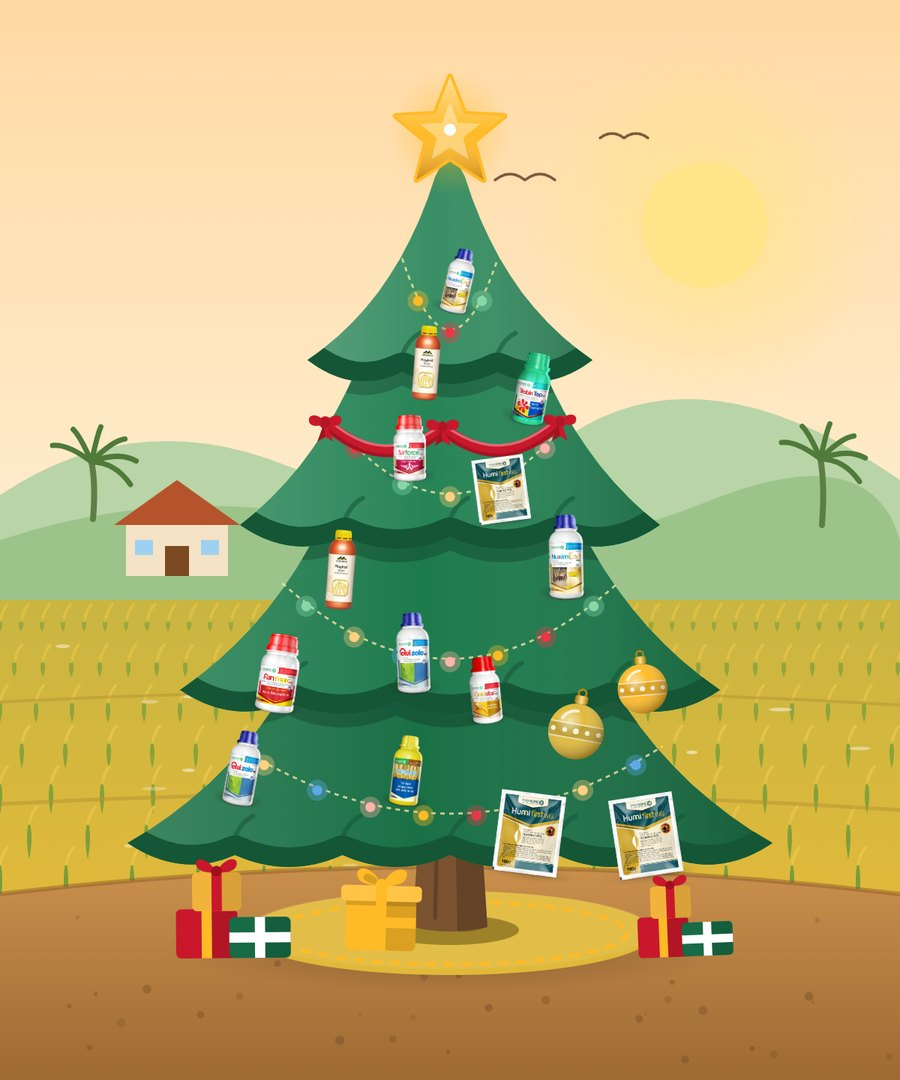
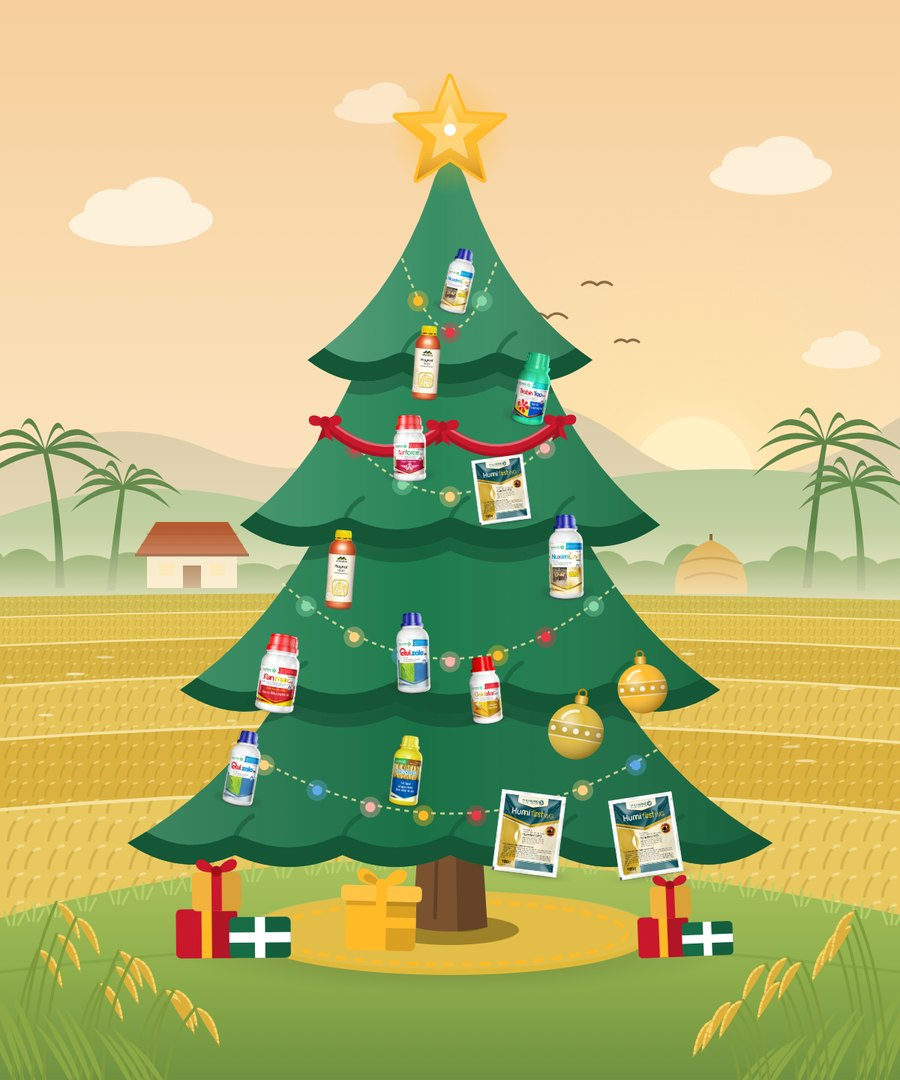
update

diff --git a/public/js/render.js b/public/js/render.js
@@ -3,7 +3,7 @@
    full-design markup, PNG export and the random decorator.
    Stage coordinate system: 600 × 720 units.
    ========================================================= */
-import { escapeHtml, round, uid, clamp } from './core.js?v=20261111a';
+import { escapeHtml, round, uid, clamp } from './core.js?v=20261111f';
 
 export const W = 600;
 export const H = 720;
@@ -224,6 +224,102 @@ function pine(x, y, h, fill) {
   return `<path d="M${x} ${y - h}L${x + w * 0.55} ${y - h * 0.55}H${x + w * 0.3}L${x + w} ${y}H${x - w}L${x - w * 0.3} ${y - h * 0.55}H${x - w * 0.55}Z" fill="${fill}"/>`;
 }
 
+/* ---------------- "Cánh đồng lúa mùa vàng" — golden-hour Vietnamese countryside ---------------- */
+function cloud(x, y, s, o) {
+  return `<g transform="translate(${x} ${y}) scale(${s})" fill="#FFF9EC" opacity="${o}"><ellipse cx="0" cy="0" rx="46" ry="14"/><ellipse cx="-16" cy="-9" rx="20" ry="15"/><ellipse cx="12" cy="-13" rx="24" ry="19"/><ellipse cx="34" cy="-4" rx="16" ry="11"/></g>`;
+}
+function coconut(x, y, h, lean, fill) {
+  // curved trunk + a crown of drooping leaflets, as filled shapes
+  const tx = x + lean, ty = y - h;
+  let g = `<path d="M${x - 3} ${y}Q${x + lean * 0.2} ${y - h * 0.55} ${tx - 1.6} ${ty}L${tx + 1.6} ${ty}Q${x + lean * 0.2 + 4} ${y - h * 0.55} ${x + 3} ${y}Z" fill="${fill}"/>`;
+  [-168, -138, -108, -72, -42, -12, 18, 160].forEach((a, i) => {
+    const rad = (a * Math.PI) / 180, len = h * (0.48 + (i % 3) * 0.05);
+    const ex = tx + Math.cos(rad) * len, ey = ty + Math.sin(rad) * len * 0.55 + len * 0.28;
+    const cx = tx + Math.cos(rad) * len * 0.55, cy = ty + Math.sin(rad) * len * 0.5 - 6;
+    g += `<path d="M${round(tx)} ${round(ty)}Q${round(cx)} ${round(cy - 3)} ${round(ex)} ${round(ey)}Q${round(cx)} ${round(cy + 4)} ${round(tx)} ${round(ty + 2)}Z" fill="${fill}"/>`;
+  });
+  return g;
+}
+function riceClump(x, y, h, dir, r) {
+  // a few stalks bowing under heavy golden heads (foreground framing)
+  let g = '';
+  for (let k = 0; k < 4; k++) {
+    const sx = x + (k - 1.5) * 7 + (r() - 0.5) * 3;
+    const hh = h * (0.78 + r() * 0.3);
+    const bend = dir * (14 + r() * 10);
+    const tx = sx + bend, ty = y - hh;
+    // leaf blade, then the stalk
+    g += `<path d="M${round(sx)} ${y}Q${round(sx - dir * 18)} ${round(y - hh * 0.45)} ${round(sx - dir * 26)} ${round(y - hh * 0.62)}Q${round(sx - dir * 8)} ${round(y - hh * 0.4)} ${round(sx + dir * 2)} ${y}Z" fill="#8CA845"/>`;
+    g += `<path d="M${round(sx)} ${y}Q${round(sx + bend * 0.1)} ${round(y - hh * 0.62)} ${round(tx)} ${round(ty)}" stroke="#7F9A3C" stroke-width="2" fill="none" stroke-linecap="round"/>`;
+    // the drooping panicle: one smooth tapered shape + a light grain edge
+    const ex = tx + dir * 16, ey = ty + 26;
+    g += `<path d="M${round(tx)} ${round(ty)}Q${round(tx + dir * 14)} ${round(ty + 2)} ${round(ex)} ${round(ey)}Q${round(tx + dir * 6)} ${round(ty + 12)} ${round(tx)} ${round(ty)}Z" fill="#DDAF3A"/>`;
+    g += `<path d="M${round(tx + dir * 2)} ${round(ty + 1)}Q${round(tx + dir * 12)} ${round(ty + 4)} ${round(ex - dir * 1)} ${round(ey - 3)}" stroke="#F4D46A" stroke-width="1.6" fill="none" stroke-linecap="round" stroke-dasharray="2.6 1.8"/>`;
+  }
+  return g;
+}
+function riceField(id) {
+  const r = rng(71);
+  let d = `<linearGradient id="${id('sky')}" x1="0" y1="0" x2="0" y2="1"><stop offset="0" stop-color="#F6CF9B"/><stop offset=".45" stop-color="#FBE3BE"/><stop offset="1" stop-color="#FFF3D8"/></linearGradient>`;
+  d += `<radialGradient id="${id('sun')}" cx="50%" cy="50%" r="50%"><stop offset="0" stop-color="#FFF4CF" stop-opacity=".95"/><stop offset=".35" stop-color="#FFE3A0" stop-opacity=".55"/><stop offset="1" stop-color="#FFE3A0" stop-opacity="0"/></radialGradient>`;
+  d += `<linearGradient id="${id('far')}" x1="0" y1="0" x2="0" y2="1"><stop offset="0" stop-color="#D9CBA8"/><stop offset="1" stop-color="#EBDDBA"/></linearGradient>`;
+  d += `<linearGradient id="${id('mid')}" x1="0" y1="0" x2="0" y2="1"><stop offset="0" stop-color="#B8C99A"/><stop offset="1" stop-color="#CBD6A8"/></linearGradient>`;
+  d += `<linearGradient id="${id('mound')}" x1="0" y1="0" x2="0" y2="1"><stop offset="0" stop-color="#A9C25E"/><stop offset=".5" stop-color="#8FAE4C"/><stop offset="1" stop-color="#6F9140"/></linearGradient>`;
+  d += `<linearGradient id="${id('haze')}" x1="0" y1="0" x2="0" y2="1"><stop offset="0" stop-color="#FFF3D8" stop-opacity="0"/><stop offset="1" stop-color="#FFF3D8" stop-opacity=".75"/></linearGradient>`;
+  // rice texture at four perspective scales (far → near)
+  [0.55, 0.8, 1.15, 1.7].forEach((k, i) => {
+    d += `<pattern id="${id('stalk' + i)}" width="16" height="11" patternUnits="userSpaceOnUse" patternTransform="scale(${k})"><path d="M3 11q.6-5 3.6-8.6M10 11q.2-4.4 3.2-7.6" stroke="#A8822A" stroke-opacity=".32" stroke-width="1.1" fill="none" stroke-linecap="round"/><path d="M6.4 2.6q1.2-1 2.6-1M13.2 3.6q1-.8 2.2-.8" stroke="#FFF0B3" stroke-opacity=".5" stroke-width="1" fill="none" stroke-linecap="round"/></pattern>`;
+  });
+
+  let s = `<defs>${d}</defs><rect width="${W}" height="${H}" fill="url(#${id('sky')})"/>`;
+  // sun low over the hills, soft glow and a few clouds
+  s += `<circle cx="462" cy="318" r="190" fill="url(#${id('sun')})"/><circle cx="462" cy="318" r="40" fill="#FFF1C4"/>`;
+  s += cloud(92, 150, 1, 0.75) + cloud(512, 118, 0.85, 0.7) + cloud(250, 74, 0.6, 0.5) + cloud(560, 238, 0.55, 0.55);
+  // distant ranges
+  s += `<path d="M0 312Q70 270 140 300T280 286T420 296T600 278V380H0Z" fill="url(#${id('far')})"/>`;
+  s += `<path d="M0 344Q90 312 180 336T360 330T600 322V392H0Z" fill="url(#${id('mid')})"/>`;
+  // village grove on the horizon (rounded clumps), with palms and a farmhouse
+  let grove = '';
+  for (let x = -10; x < W + 20; x += 18 + r() * 14) {
+    const h = 14 + r() * 16;
+    grove += `<ellipse cx="${round(x)}" cy="${round(392 - h * 0.35)}" rx="${round(14 + r() * 10)}" ry="${round(h * 0.7)}"/>`;
+  }
+  s += `<g fill="#7C9F5A">${grove}</g><rect y="384" width="${W}" height="16" fill="#7C9F5A"/>`;
+  s += coconut(40, 392, 92, -10, '#5E8448') + coconut(74, 394, 70, 8, '#668C4E') + coconut(538, 392, 98, 12, '#5E8448') + coconut(574, 394, 72, -6, '#668C4E');
+  s += `<g transform="translate(128 392)"><rect x="-30" y="-24" width="60" height="24" fill="#F6E6C8"/><path d="M-38 -22L-24 -44H24L38 -22Z" fill="#B65A30"/><path d="M-38 -22H38" stroke="#8E4322" stroke-width="2"/><path d="M-30 -36H30M-34 -29H34" stroke="#9E4A26" stroke-opacity=".45" stroke-width="1"/><rect x="-6" y="-15" width="12" height="15" fill="#8A5428"/><rect x="12" y="-16" width="10" height="8" fill="#FBE3A6"/><rect x="-22" y="-16" width="10" height="8" fill="#FBE3A6"/></g>`;
+  // haystack (đống rơm)
+  s += `<g transform="translate(474 394)"><path d="M0 -38V2" stroke="#7A5A2E" stroke-width="2"/><path d="M-24 2Q-26 -24 0 -34Q26 -24 24 2Z" fill="#D9A742"/><path d="M-18 -8Q0 -16 18 -8M-21 -18Q0 -26 21 -18" stroke="#B88528" stroke-width="1.4" fill="none"/></g>`;
+  s += `<rect y="352" width="${W}" height="48" fill="url(#${id('haze')})"/>`;
+  // terraced paddies: bands get taller toward the viewer
+  const rows = [398, 412, 431, 458, 494, 541, 650];
+  const fills = ['#D3BE54', '#E2C251', '#D8B444', '#E6C459', '#DBB23F', '#E9C860'];
+  for (let i = 0; i < rows.length - 1; i++) {
+    const a = rows[i], b = rows[i + 1], dip = 6 + i * 4;
+    const band = `M0 ${a}Q300 ${a - dip} 600 ${a + 2}V${b + 2}Q300 ${b - dip - 4} 0 ${b}Z`;
+    s += `<path d="${band}" fill="${fills[i]}"/><path d="${band}" fill="url(#${id('stalk' + Math.min(3, Math.floor(i * 0.7)))})"/>`;
+    // the bờ ruộng (dyke) between two paddies: sunlit top + shadow
+    const w = 1 + i * 0.6;
+    s += `<path d="M0 ${b}Q300 ${b - dip - 4} 600 ${b + 2}" stroke="#F6E3A0" stroke-width="${round(w + 1)}" fill="none"/><path d="M0 ${b + w}Q300 ${b - dip - 4 + w} 600 ${b + 2 + w}" stroke="#A9842D" stroke-opacity=".35" stroke-width="${round(w)}" fill="none"/>`;
+  }
+  // a few water glints between the rows
+  for (let i = 0; i < 18; i++) s += `<ellipse cx="${round(r() * W)}" cy="${round(404 + r() * 120)}" rx="${round(2 + r() * 5)}" ry=".9" fill="#FFF8DD" opacity="${round(0.35 + r() * 0.35)}"/>`;
+  // birds heading home
+  s += `<g stroke="#8B6A45" stroke-width="1.6" fill="none" stroke-linecap="round"><path d="M352 212q7-6 13 0q6-6 13 0"/><path d="M388 190q5-4 10 0q5-4 10 0"/><path d="M410 228q4-3 8 0q4-3 8 0"/></g>`;
+  // grassy mound the tree stands on
+  s += `<path d="M0 612Q150 570 300 574T600 610V720H0Z" fill="url(#${id('mound')})"/>`;
+  let tufts = '';
+  for (let x = 6; x < W; x += 13 + r() * 10) {
+    const y = 612 - 40 * Math.sin((x / W) * Math.PI) + 2;
+    tufts += `<path d="M${round(x)} ${round(y + 4)}l-3 -9M${round(x + 3)} ${round(y + 4)}l1 -11M${round(x + 6)} ${round(y + 4)}l4 -8"/>`;
+  }
+  s += `<g stroke="#B9D06C" stroke-width="1.6" stroke-linecap="round" opacity=".9">${tufts}</g>`;
+  s += `<path d="M0 648Q300 610 600 648" stroke="#6F9140" stroke-opacity=".35" stroke-width="2" fill="none"/>`;
+  // foreground rice framing both bottom corners
+  s += riceClump(18, 720, 110, 1, r) + riceClump(58, 724, 86, 1, r) + riceClump(98, 726, 62, 1, r);
+  s += riceClump(582, 720, 112, -1, r) + riceClump(542, 724, 84, -1, r) + riceClump(504, 726, 58, -1, r);
+  return s;
+}
+
 export function renderBackground(bg, u = 'b') {
   const id = (k) => `${u}-${k}`;
   const theme = bg.theme;
@@ -301,38 +397,7 @@ export function renderBackground(bg, u = 'b') {
     s += snowDots(r, 30, 0, 600, 0.6);
     return s;
   }
-  if (theme === 'rice-field') {
-    const r = rng(71);
-    let s = `<defs><linearGradient id="${id('sky')}" x1="0" y1="0" x2="0" y2="1"><stop offset="0" stop-color="#FFD9A3"/><stop offset=".55" stop-color="#FFEFD2"/><stop offset="1" stop-color="#FFF8E6"/></linearGradient><radialGradient id="${id('sun')}"><stop offset="0" stop-color="#FFE48A" stop-opacity=".9"/><stop offset="1" stop-color="#FFE48A" stop-opacity="0"/></radialGradient><linearGradient id="${id('paddy')}" x1="0" y1="0" x2="0" y2="1"><stop offset="0" stop-color="#C9B542"/><stop offset="1" stop-color="#E0B93A"/></linearGradient><linearGradient id="${id('ground')}" x1="0" y1="0" x2="0" y2="1"><stop offset="0" stop-color="#C98F4C"/><stop offset="1" stop-color="#9D6A33"/></linearGradient></defs>`;
-    s += `<rect width="${W}" height="${H}" fill="url(#${id('sky')})"/><circle cx="470" cy="150" r="120" fill="url(#${id('sun')})"/><circle cx="470" cy="150" r="42" fill="#FFE48A"/>`;
-    // far hills + palm silhouettes
-    s += `<path d="M0 330Q90 270 190 310T380 290T600 320V400H0Z" fill="#B9D4A6"/><path d="M0 360Q120 320 240 350T470 335T600 360V420H0Z" fill="#9CC48A"/>`;
-    [[62, 346, 38], [548, 350, 44]].forEach(([x, y, h]) => {
-      s += `<path d="M${x} ${y}q2 -${h * 0.6} -1 -${h}" stroke="#5E7F43" stroke-width="4" fill="none" stroke-linecap="round"/>`;
-      for (let k = 0; k < 6; k++) { const a = -150 + k * 36; s += `<path d="M${x - 1} ${y - h}q${round(18 * Math.cos((a * Math.PI) / 180))} ${round(12 * Math.sin((a * Math.PI) / 180) - 6)} ${round(30 * Math.cos((a * Math.PI) / 180))} ${round(26 * Math.sin((a * Math.PI) / 180) + 2)}" stroke="#4F7A3A" stroke-width="3.5" fill="none" stroke-linecap="round"/>`; }
-    });
-    // village house
-    s += `<g transform="translate(118 378)"><rect x="-34" y="-28" width="68" height="34" fill="#F4E3C7"/><path d="M-42 -28L0 -58L42 -28Z" fill="#B5542C"/><rect x="-8" y="-14" width="16" height="20" fill="#7C4A22"/><rect x="16" y="-18" width="12" height="10" fill="#9ED1F0"/><rect x="-28" y="-18" width="12" height="10" fill="#9ED1F0"/></g>`;
-    // paddy rows in golden-green
-    s += `<rect y="400" width="${W}" height="200" fill="url(#${id('paddy')})"/>`;
-    for (let row = 0; row < 7; row++) {
-      const y = 412 + row * 27;
-      const sp = 14 + row * 5;
-      for (let x = (row % 2) * sp / 2; x < W; x += sp) {
-        const hh = 9 + row * 3.4;
-        s += `<path d="M${round(x)} ${y + hh}q-3 -${round(hh * 0.6)} 0 -${round(hh)}q3 ${round(hh * 0.4)} 0 ${round(hh)}" fill="#6E9A3A" opacity="${round(0.55 + row * 0.06)}"/><path d="M${round(x)} ${y + 2}q2 -8 5 -11" stroke="#E9C64A" stroke-width="2" fill="none" stroke-linecap="round" opacity="${round(0.6 + row * 0.05)}"/>`;
-      }
-    }
-    // field divider paths + water glints
-    s += `<path d="M0 468Q300 452 600 470" stroke="#B59334" stroke-opacity=".5" stroke-width="2" fill="none"/><path d="M0 536Q300 520 600 540" stroke="#B59334" stroke-opacity=".5" stroke-width="2.5" fill="none"/>`;
-    for (let i = 0; i < 26; i++) s += `<ellipse cx="${round(r() * W)}" cy="${round(430 + r() * 150)}" rx="${round(3 + r() * 6)}" ry="1.2" fill="#fff" opacity="${round(0.25 + r() * 0.3)}"/>`;
-    // dirt yard where the tree stands
-    s += `<path d="M0 596Q300 560 600 596V720H0Z" fill="url(#${id('ground')})"/><path d="M0 596Q300 560 600 596" stroke="#8F5D2B" stroke-opacity=".5" stroke-width="3" fill="none"/>`;
-    for (let i = 0; i < 40; i++) s += `<circle cx="${round(r() * W)}" cy="${round(610 + r() * 100)}" r="${round(1 + r() * 2.2)}" fill="#6B4320" opacity="${round(0.15 + r() * 0.25)}"/>`;
-    // dragonflies / birds
-    s += `<path d="M330 120q10-8 20 0M350 120q10-8 20 0M400 92q8-6 16 0M416 92q8-6 16 0" stroke="#7A5C3A" stroke-width="1.8" fill="none" stroke-linecap="round"/>`;
-    return s;
-  }
+  if (theme === 'rice-field') return riceField(id);
   // minimal
   const c = bg.color || '#FBE9D7';
   const light = luminance(c) > 0.35;

diff --git a/public/js/home.js b/public/js/home.js
@@ -1,6 +1,6 @@
-import { $, $$, mountChrome, loadLibrary, showFatal, escapeHtml } from './core.js?v=20261111a';
-import { renderDesignSVG } from './render.js?v=20261111a';
-import { THEMES, designFromTheme } from './themes-data.js?v=20261111a';
+import { $, $$, mountChrome, loadLibrary, showFatal, escapeHtml } from './core.js?v=20261111f';
+import { renderDesignSVG } from './render.js?v=20261111f';
+import { THEMES, designFromTheme } from './themes-data.js?v=20261111f';
 
 mountChrome('about');
 
@@ -47,18 +47,15 @@ const DROPS = [12, 40, 22, 50, 16, 34, 26, 46];
 // Phú Nông theme products first, so the garland matches the hero tree
 const FEATURED = THEMES[0].pool.filter((id) => id.startsWith('pn-'));
 
-let garlandFilter = 'all';
 let garlandCount = 0;
 let products = [];
 
-function pickProducts(filter) {
+function pickProducts() {
   const ordered = [...products].sort((a, b) => {
     const ia = FEATURED.indexOf(a.id), ib = FEATURED.indexOf(b.id);
     return (ia < 0 ? 99 : ia) - (ib < 0 ? 99 : ib);
   });
-  if (filter === 'bvtv') return ordered.filter((a) => !isFert(a));
-  if (filter === 'fert') return ordered.filter(isFert);
-  // "all": two pesticides, one fertiliser, repeat — both families stay visible
+  // two pesticides, one fertiliser, repeat — both families stay visible
   const b = ordered.filter((a) => !isFert(a)), f = ordered.filter(isFert), out = [];
   while (b.length || f.length) {
     if (b.length) out.push(b.shift());
@@ -96,7 +93,7 @@ function layoutGarland() {
 function renderGarland() {
   const list = $('#garland');
   const n = slotsFor(window.innerWidth);
-  const all = pickProducts(garlandFilter);
+  const all = pickProducts();
   const items = all.slice(0, n);
   garlandCount = n;
   $('#garland-track').style.setProperty('--n', items.length);
@@ -125,17 +122,6 @@ function renderGarland() {
 
 function setupGarland() {
   products = lib.decorations.filter((a) => a.category === 'products' && isBottle(a));
-  const counts = { all: products.length, bvtv: products.filter((a) => !isFert(a)).length, fert: products.filter(isFert).length };
-  $$('[data-count]').forEach((n) => { n.textContent = counts[n.dataset.count]; });
-  $$('#garland-filter button').forEach((btn) => {
-    btn.hidden = counts[btn.dataset.filter] === 0;
-    btn.addEventListener('click', () => {
-      if (btn.dataset.filter === garlandFilter) return;
-      garlandFilter = btn.dataset.filter;
-      $$('#garland-filter button').forEach((b) => b.setAttribute('aria-pressed', String(b === btn)));
-      renderGarland();
-    });
-  });
   renderGarland();
   let timer = 0;
   window.addEventListener('resize', () => {

diff --git a/public/js/boot-check.js b/public/js/boot-check.js
@@ -1,0 +1,41 @@
+/* Classic (non-module) script: it still runs when the page is opened straight from disk
+   (file://), where the browser blocks the ES modules. Instead of the page hanging on its
+   "Đang tải…" placeholders, show what went wrong and how to fix it.
+   Usage: <script src="js/boot-check.js" data-ready="CSS selector that exists once the page has loaded"></script> */
+(function () {
+  var script = document.currentScript;
+  var readySelector = (script && script.getAttribute('data-ready')) || '';
+
+  function warn(html) {
+    if (document.getElementById('boot-warning')) return;
+    var box = document.createElement('div');
+    box.id = 'boot-warning';
+    box.setAttribute('role', 'alert');
+    box.style.cssText = 'position:fixed;left:16px;right:16px;bottom:16px;z-index:1000;max-width:720px;margin:0 auto;'
+      + 'background:#fff;color:#13261B;border-left:6px solid #B90C17;border-radius:14px;padding:16px 20px;'
+      + 'box-shadow:0 18px 40px rgba(0,0,0,.25);font:500 15px/1.55 "Plus Jakarta Sans",system-ui,sans-serif;';
+    box.innerHTML = html;
+    document.body.appendChild(box);
+  }
+  var code = 'style="background:#EBF1E4;padding:1px 6px;border-radius:5px;font-family:ui-monospace,Consolas,monospace"';
+
+  if (location.protocol === 'file:') {
+    var start = function () {
+      warn('<b>Trang đang được mở trực tiếp từ file nên trình duyệt chặn tải dữ liệu.</b><br>'
+        + 'Hãy chạy server rồi mở <a href="http://localhost:5173/" style="color:#0B6B3A;font-weight:700">http://localhost:5173</a>:<br>'
+        + 'mở terminal tại thư mục dự án và gõ <span ' + code + '>cd public</span> rồi <span ' + code + '>python -m http.server 5173</span>.');
+    };
+    if (document.body) start(); else document.addEventListener('DOMContentLoaded', start);
+    return;
+  }
+
+  if (!readySelector) return;
+  window.addEventListener('load', function () {
+    setTimeout(function () {
+      if (document.querySelector(readySelector)) return;
+      warn('<b>Không tải được dữ liệu của trang.</b><br>'
+        + 'Kiểm tra server ở máy còn chạy không (<span ' + code + '>python -m http.server 5173</span> trong thư mục <span ' + code + '>public</span>), '
+        + 'rồi tải lại trang bằng <span ' + code + '>Ctrl + F5</span>.');
+    }, 8000);
+  });
+})();

diff --git a/public/css/styles.css b/public/css/styles.css
@@ -335,12 +335,6 @@ body.page-home {
 .home-garland-head { display: flex; align-items: flex-end; justify-content: space-between; gap: 28px; flex-wrap: wrap; }
 .home-garland h2 { color: #fff; max-width: 640px; }
 .home-garland-head p { margin: 12px 0 0; max-width: 580px; color: #C9DDD0; font-size: 16.5px; line-height: 1.6; }
-.home-filter { display: flex; gap: 6px; padding: 5px; border-radius: 999px; background: rgba(255, 255, 255, .07); box-shadow: inset 0 0 0 1px rgba(255, 255, 255, .14); }
-.home-filter button { display: inline-flex; align-items: center; gap: 8px; border: 0; background: transparent; color: #E6F1E9; padding: 9px 16px; min-height: 40px; border-radius: 999px; font: 600 14px/1.2 var(--font-body); transition: background .18s, color .18s; }
-.home-filter button span { font-size: 12px; font-weight: 700; padding: 2px 7px; border-radius: 999px; background: rgba(255, 255, 255, .12); }
-.home-filter button:hover { background: rgba(255, 255, 255, .1); }
-.home-filter button[aria-pressed="true"] { background: var(--hm-gold); color: var(--hm-green-950); }
-.home-filter button[aria-pressed="true"] span { background: rgba(5, 42, 24, .14); }
 
 .home-garland-scroller { margin-top: 10px; }
 .home-garland-track { position: relative; height: 370px; }
@@ -453,9 +447,6 @@ body.page-home {
 }
 @media (max-width: 759px) {
   .home-garland { padding: 48px 0 40px; }
-  .home-filter { width: 100%; }
-  .home-filter button { flex: 1 1 auto; justify-content: center; gap: 6px; padding: 8px 8px; font-size: 13.5px; white-space: nowrap; }
-  .home-filter button span { padding: 2px 6px; }
   .home-garland-scroller { display: flex; padding: 0 16px; overflow-x: auto; overscroll-behavior-x: contain; scrollbar-width: thin; scrollbar-color: rgba(224, 185, 58, .6) transparent; -webkit-overflow-scrolling: touch; }
   .home-garland-track { flex: none; height: 300px; width: calc(var(--n, 12) * 100px); max-width: none; }
   .home-orn { width: 96px; margin-left: -48px; }

diff --git a/public/studio.html b/public/studio.html
@@ -14,7 +14,7 @@
   <link rel="preconnect" href="https://fonts.gstatic.com" crossorigin>
   <link rel="stylesheet"
     href="https://fonts.googleapis.com/css2?family=Material+Symbols+Rounded:opsz,wght,FILL,GRAD@24,500,0..1,0&display=block">
-  <link rel="stylesheet" href="css/styles.css?v=20261111c">
+  <link rel="stylesheet" href="css/styles.css?v=20261111f">
 </head>
 
 <body class="page-studio">
@@ -179,7 +179,7 @@
             <h3>Lời chúc riêng</h3>
             <label class="switch"><span>Hiện lời chúc trên cây</span><input type="checkbox" id="gr-visible"></label>
             <label class="sub" for="gr-text">Lời chúc</label>
-            <input class="field" id="gr-text" maxlength="60" placeholder="Giáng Sinh an lành — Mùa vàng bội thu!">
+            <input class="field" id="gr-text" maxlength="60" placeholder="Giáng Sinh an lành - Mùa vàng bội thu!">
             <label class="sub" for="gr-name">Tên của bạn</label>
             <input class="field" id="gr-name" maxlength="40" placeholder="vd. Đại lý Phú Nông Cần Thơ">
             <label class="sub" for="gr-date">Ngày hoặc lời đề tặng</label>
@@ -214,7 +214,8 @@
     <button type="button" data-sheet="scene"><span class="ms">wb_twilight</span>Cảnh</button>
   </nav>
 
-  <script type="module" src="js/studio.js?v=20261111a"></script>
+  <script src="js/boot-check.js?v=20261111f" data-ready="#L-tree *"></script>
+  <script type="module" src="js/studio.js?v=20261111f"></script>
 </body>
 
 </html>

diff --git a/public/index.html b/public/index.html
@@ -18,7 +18,7 @@
   <link rel="preconnect" href="https://fonts.gstatic.com" crossorigin>
   <link rel="stylesheet"
     href="https://fonts.googleapis.com/css2?family=Material+Symbols+Rounded:opsz,wght,FILL,GRAD@24,500,0..1,0&display=block">
-  <link rel="stylesheet" href="css/styles.css?v=20261111c">
+  <link rel="stylesheet" href="css/styles.css?v=20261111f">
 </head>
 
 <body class="page-home">
@@ -104,13 +104,6 @@
       <div class="container home-garland-head">
         <div>
           <h2 id="garland-title">Sản phẩm Phú Nông treo trên cây thông</h2>
-        </div>
-        <div class="home-filter" role="group" aria-label="Lọc sản phẩm" id="garland-filter">
-          <button type="button" data-filter="all" aria-pressed="true">Tất cả <span data-count="all">38</span></button>
-          <button type="button" data-filter="bvtv" aria-pressed="false">Thuốc BVTV <span
-              data-count="bvtv">25</span></button>
-          <button type="button" data-filter="fert" aria-pressed="false">Phân bón <span
-              data-count="fert">13</span></button>
         </div>
       </div>
 
@@ -201,7 +194,8 @@
       </div>
     </section>
   </main>
-  <script type="module" src="js/home.js?v=20261111a"></script>
+  <script src="js/boot-check.js?v=20261111f" data-ready="#hero-tree svg"></script>
+  <script type="module" src="js/home.js?v=20261111f"></script>
 </body>
 
 </html>

diff --git a/public/js/themes-data.js b/public/js/themes-data.js
@@ -1,13 +1,13 @@
 /* Ready-made Christmas themes. Each one sets coordinated colours,
    a background and a decoration pool, then the random decorator
    lays them out. Users can keep editing afterwards. */
-import { defaultDesign, clone } from './core.js?v=20261111a';
-import { generateDecorations } from './render.js?v=20261111a';
+import { defaultDesign, clone } from './core.js?v=20261111f';
+import { generateDecorations } from './render.js?v=20261111f';
 
 export const THEMES = [
   {
     id: 'phu-nong-harvest', name: 'Mùa Vàng Phú Nông', group: 'traditional',
-    badge: 'Phú Nông', badgeIcon: 'eco', photo: 'assets/themes/phu-nong-harvest.jpg', photoPosition: 'center 35%', photoLabel: 'Đồng lúa', icon: 'agriculture',
+    badge: 'Phú Nông', badgeIcon: 'eco', photo: 'assets/themes/phu-nong-harvest.jpg?v=2', photoPosition: 'center 35%', photoLabel: 'Đồng lúa', icon: 'agriculture',
     description: 'Cây thông mùa gặt: chai thuốc BVTV và phân bón Phú Nông treo lên cành, quả châu vàng lúa chín, đỏ thắm, ngôi sao sáng giữa cánh đồng bội thu.',
     tags: ['Nông nghiệp', 'Thuốc BVTV', 'Bội thu'],
     palette: ['#176B45', '#E0B93A', '#C9182B', '#FFF8E6'],

diff --git a/public/js/studio.js b/public/js/studio.js
@@ -6,12 +6,12 @@ import {
   loadLibrary, defaultDesign, normalizeDesign, loadCurrent, saveCurrent,
   decodeDesign, shareLink, copyText, downloadBlob, fileSafe,
   toast, confirmDialog, alertDialog, mountChrome, showFatal,
-} from './core.js?v=20261111a';
+} from './core.js?v=20261111f';
 import {
   W, H, TREE_STYLES, BACKGROUNDS, treeGeometry, renderTree, renderBackground, renderDecoration,
   renderGreeting, transformOf, assetSVG, designToPngBlob, generateDecorations, suggestPosition,
-} from './render.js?v=20261111a';
-import { THEMES, themeById, designFromTheme } from './themes-data.js?v=20261111a';
+} from './render.js?v=20261111f';
+import { THEMES, themeById, designFromTheme } from './themes-data.js?v=20261111f';
 
 mountChrome('studio', { share: true, noFooter: true, primary: { label: 'Xuất PNG', icon: 'download', id: 'hdr-export' } });
 

diff --git a/public/themes.html b/public/themes.html
@@ -14,7 +14,7 @@
   <link rel="preconnect" href="https://fonts.gstatic.com" crossorigin>
   <link rel="stylesheet"
     href="https://fonts.googleapis.com/css2?family=Material+Symbols+Rounded:opsz,wght,FILL,GRAD@24,500,0..1,0&display=block">
-  <link rel="stylesheet" href="css/styles.css?v=20261111c">
+  <link rel="stylesheet" href="css/styles.css?v=20261111f">
 </head>
 
 <body class="page-themes">
@@ -30,7 +30,8 @@
     <div class="theme-grid" id="theme-grid"></div>
 
   </main>
-  <script type="module" src="js/themes.js?v=20261111a"></script>
+  <script src="js/boot-check.js?v=20261111f" data-ready="#theme-grid .theme-card"></script>
+  <script type="module" src="js/themes.js?v=20261111f"></script>
 </body>
 
 </html>

diff --git a/public/js/themes.js b/public/js/themes.js
@@ -1,6 +1,6 @@
-import { $, $$, mountChrome, loadLibrary, showFatal, escapeHtml } from './core.js?v=20261111a';
-import { renderDesignSVG } from './render.js?v=20261111a';
-import { THEMES, designFromTheme, themeById } from './themes-data.js?v=20261111a';
+import { $, $$, mountChrome, loadLibrary, showFatal, escapeHtml } from './core.js?v=20261111f';
+import { renderDesignSVG } from './render.js?v=20261111f';
+import { THEMES, designFromTheme, themeById } from './themes-data.js?v=20261111f';
 
 mountChrome('themes');
 
